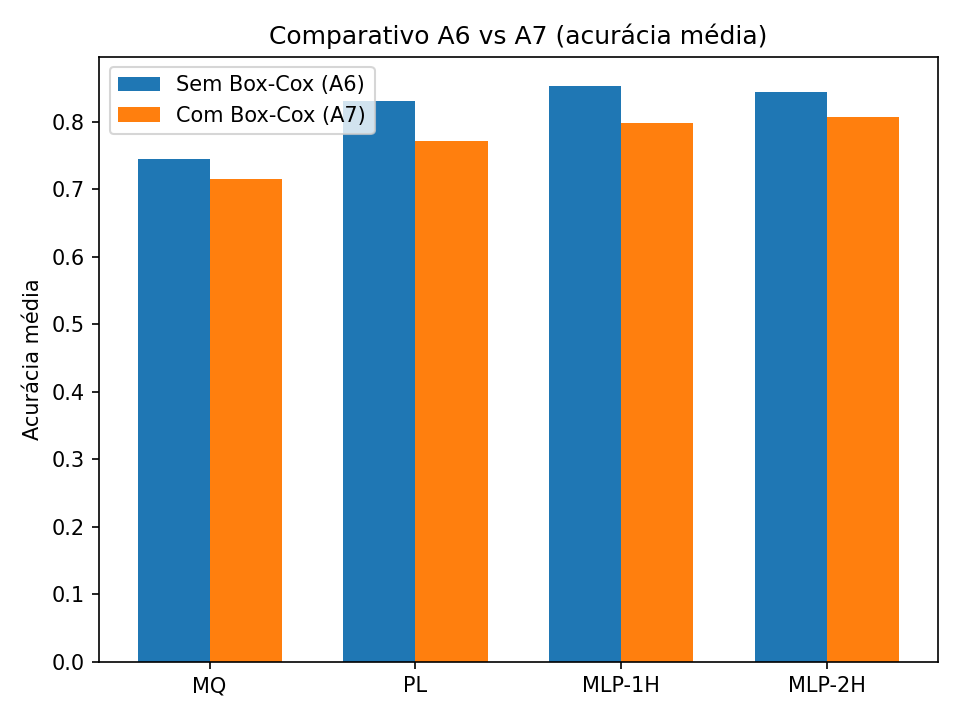
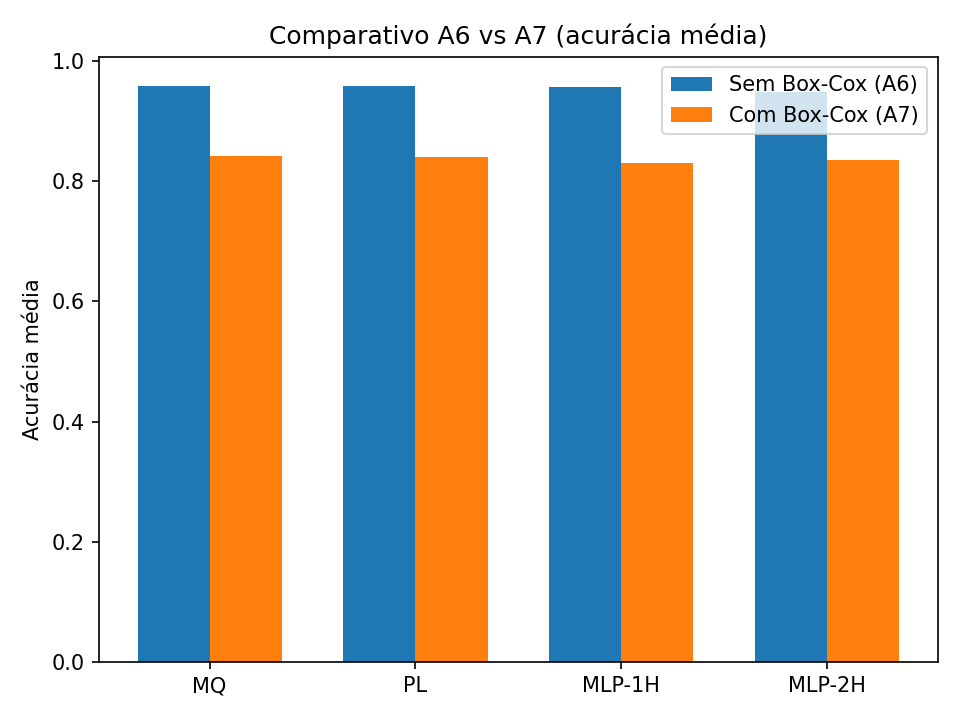
adds new results

diff --git a/src/tc2_faces_A1_A4.py b/src/tc2_faces_A1_A4.py
@@ -14,8 +14,8 @@ from trabalho_ic_aplicada.models.clf_mlp import MLPClassifier
 # =========================
 # CONFIG
 # =========================
-# DATA_ROOT = "./data/raw/Kit_projeto_FACES"
-DATA_ROOT = "/home/apo-note/Documents/Github/Trabalhos_IC_Aplicada/data/raw/Kit_projeto_FACES"
+DATA_ROOT = "./data/raw/Kit_projeto_FACES"
+# DATA_ROOT = "/home/apo-note/Documents/Github/Trabalhos_IC_Aplicada/data/raw/Kit_projeto_FACES"
 SCALES    = [(20,20), (30,30), (40,40)]  # compare as que quiser
 N_SAMPLES_RS   = 200   # nº de amostras da busca aleatória por modelo
 K_SELECT_EVAL  = 10   # repetições por candidato na seleção (trade-off tempo/estabilidade)
@@ -172,8 +172,8 @@ def select_best_by_random_search(
                             norm_name=norm, use_pca=use_pca, pca_q=pca_q,
                             seed=seed_base + s*100 + k)
             reps.append(out)
-        score = np.mean([r["f1_macro"] for r in reps])
-        # score = np.mean([r["acc"] for r in reps])
+        # score = np.mean([r["f1_macro"] for r in reps])
+        score = np.mean([r["acc"] for r in reps])
         if (best is None) or (score > best["score"]):
             best = {"params": params, "norm": norm, "score": float(score)}
     return best

diff --git a/src/tc2_faces_A7.py b/src/tc2_faces_A7.py
@@ -224,8 +224,8 @@ def select_best_by_random_search(X, y, q, sampler, n_samples=N_SAMPLES_RS, k_sel
         for k in range(k_select):
             out = eval_once_boxcox(X, y, q, model_ctor=lambda: sampler.to_model(params), seed=seed_base + s*100 + k)
             reps.append(out)
-        score = np.mean([r["f1_macro"] for r in reps])
-        # score = float(np.mean([r["acc"] for r in reps]))
+        # score = np.mean([r["f1_macro"] for r in reps])
+        score = float(np.mean([r["acc"] for r in reps]))
         if (best is None) or (score > best["score"]):
             best = {"params": params, "score": score}
     return best

diff --git a/src/tc2_faces_A5_A6.py b/src/tc2_faces_A5_A6.py
@@ -170,9 +170,9 @@ def select_best_by_random_search(
                             seed=seed_base + s*100 + k)
             reps.append(out)
             
-        score = np.mean([r["f1_macro"] for r in reps])
+        # score = np.mean([r["f1_macro"] for r in reps])
 
-        # score = np.mean([r["acc"] for r in reps])
+        score = np.mean([r["acc"] for r in reps])
         if (best is None) or (score > best["score"]):
             best = {"params": params, "norm": norm, "score": float(score)}
     return best

diff --git a/src/tc2_faces_A8.py b/src/tc2_faces_A8.py
@@ -11,7 +11,8 @@ from trabalho_ic_aplicada.models.clf_mlp import MLPClassifier
 # =========================
 # CONFIG (iguais aos seus)
 # =========================
-DATA_ROOT = "/home/apo-note/Documents/Github/Trabalhos_IC_Aplicada/data/raw/Kit_projeto_FACES"
+# DATA_ROOT = "/home/apo-note/Documents/Github/Trabalhos_IC_Aplicada/data/raw/Kit_projeto_FACES"
+DATA_ROOT = "./data/raw/Kit_projeto_FACES"
 SCALES          = [(30,30)]
 SELECT_SCALE_ID = -1
 RESULTS_DIR     = "./results/TC2/"
